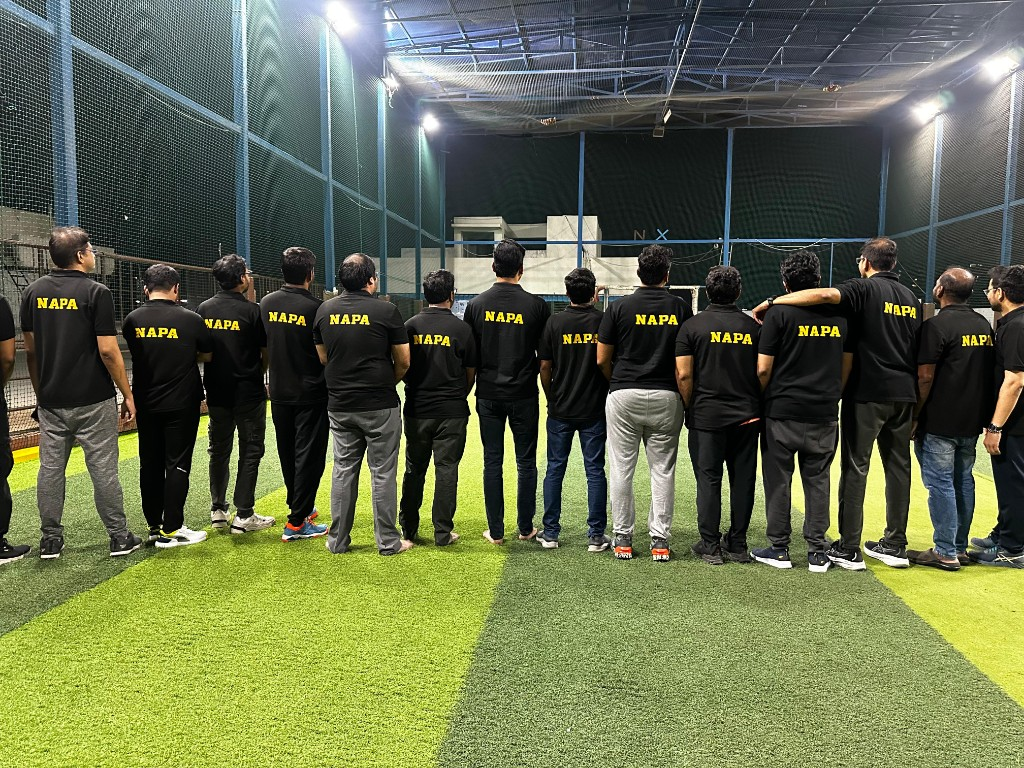
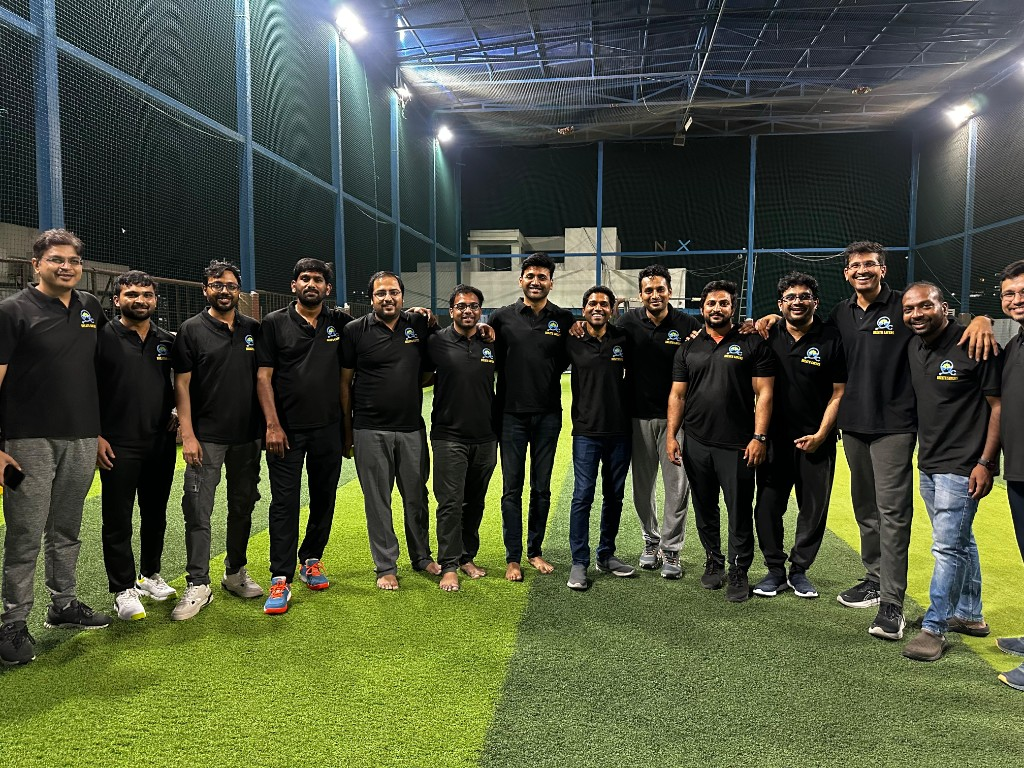
Update indoor cricket gallery with team line-up photo

diff --git a/index.html b/index.html
@@ -1326,10 +1326,10 @@
           <figure class="programmes-gallery__figure">
             <img
               src="assets/programme-indoor-cricket-01.png"
-              alt="NAPA team members in matching shirts on an indoor turf pitch"
+              alt="NAPA members standing together in a line on the indoor cricket turf"
               loading="lazy"
-              width="1200"
-              height="800"
+              width="1024"
+              height="768"
               decoding="async"
             />
           </figure>